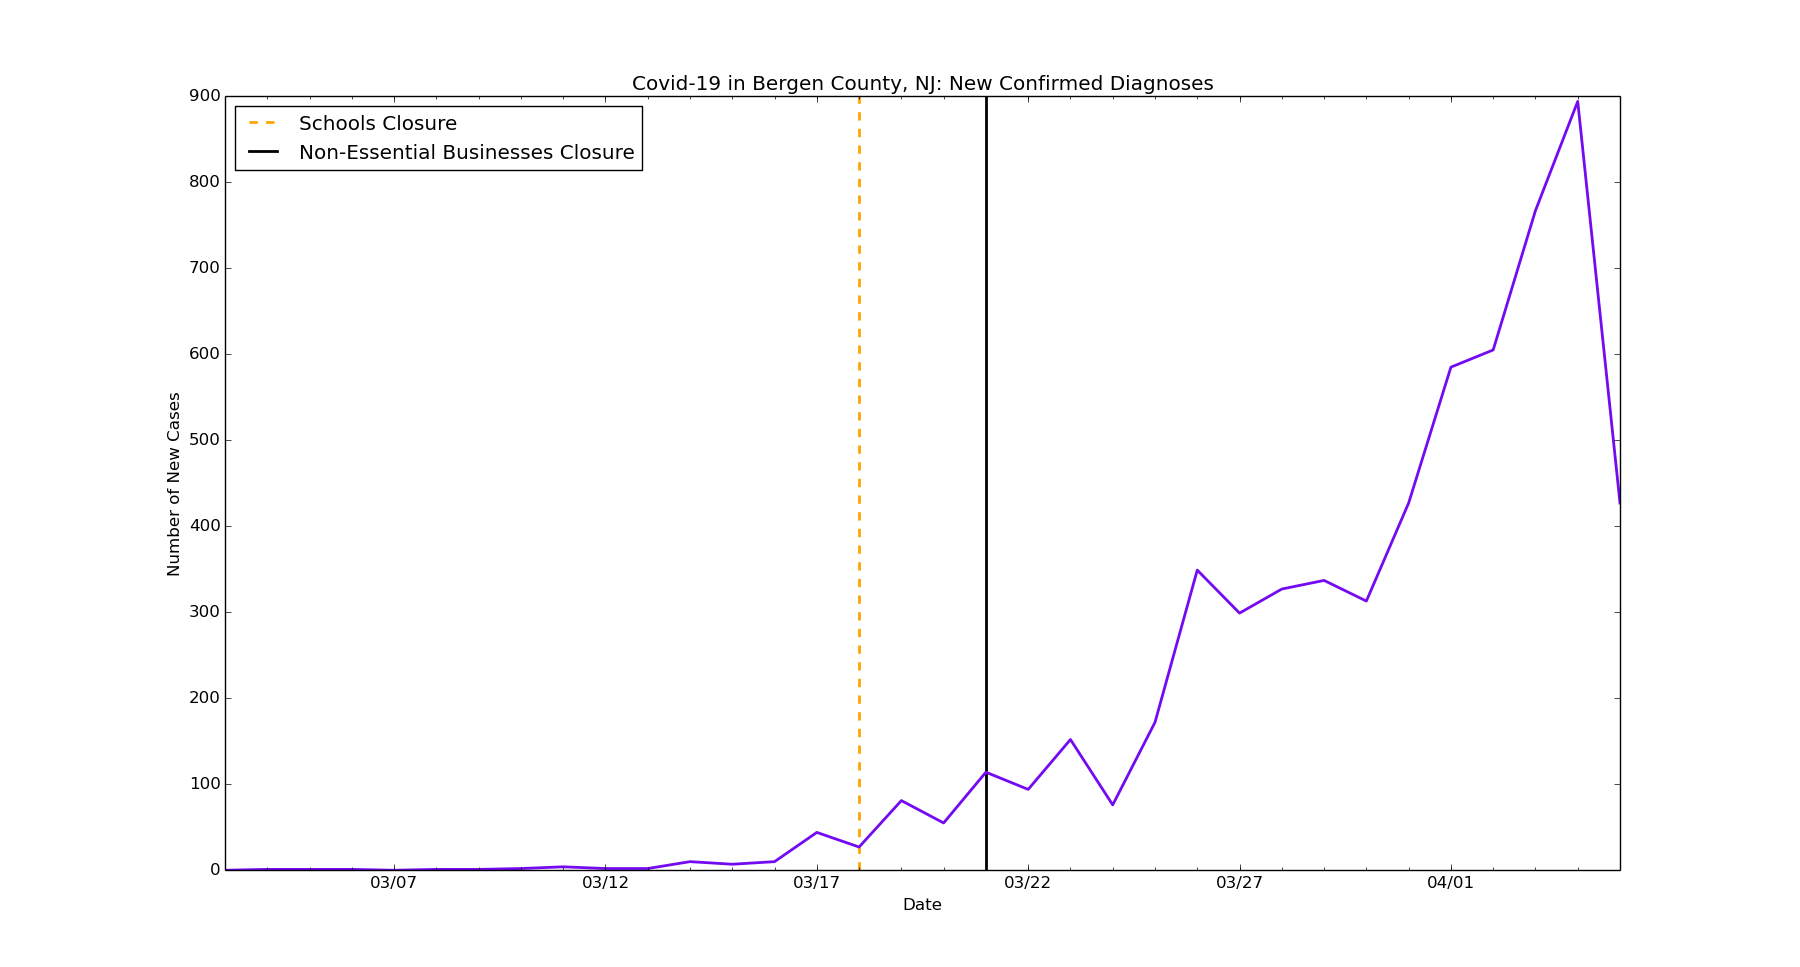
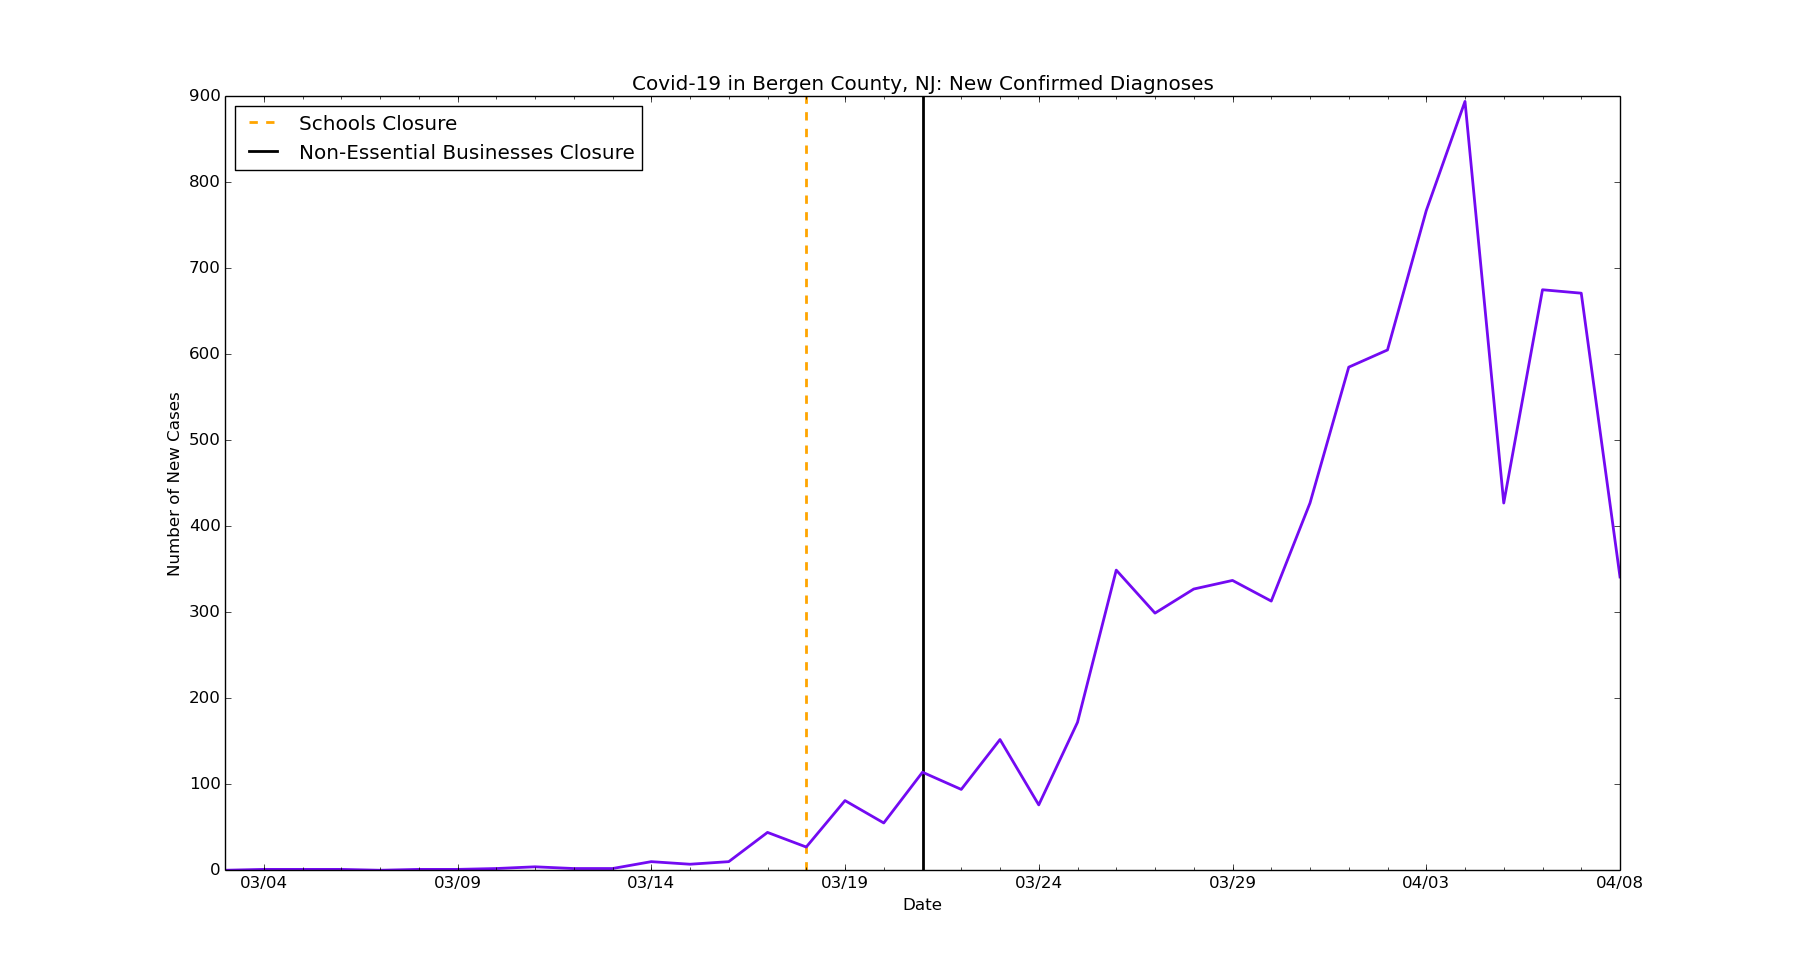
chore: Update data for Bergen

diff --git a/bergen-county/bergen-new-cases.py b/bergen-county/bergen-new-cases.py
@@ -6,7 +6,7 @@ import matplotlib.dates as mdates
 import matplotlib.ticker as ticker
 from matplotlib.dates import MO, TU, WE, TH, FR, SA, SU
 
-dates = ['3/3/2020', '3/4/2020', '3/5/2020', '3/6/2020', '3/7/2020', '3/8/2020', '3/9/2020', '3/10/2020', '3/11/2020', '3/12/2020', '3/13/2020', '3/14/2020', '3/15/2020', '3/16/2020', '3/17/2020', '3/18/2020', '3/19/2020', '3/20/2020', '3/21/2020', '3/22/2020', '3/23/2020', '3/24/2020', '3/25/2020', '3/26/2020', '3/27/2020', '3/28/2020', '3/29/2020', '3/30/2020', '3/31/2020', '4/1/2020', '4/2/2020', '4/3/2020', '4/4/2020', '4/5/2020']
+dates = ['3/3/2020', '3/4/2020', '3/5/2020', '3/6/2020', '3/7/2020', '3/8/2020', '3/9/2020', '3/10/2020', '3/11/2020', '3/12/2020', '3/13/2020', '3/14/2020', '3/15/2020', '3/16/2020', '3/17/2020', '3/18/2020', '3/19/2020', '3/20/2020', '3/21/2020', '3/22/2020', '3/23/2020', '3/24/2020', '3/25/2020', '3/26/2020', '3/27/2020', '3/28/2020', '3/29/2020', '3/30/2020', '3/31/2020', '4/1/2020', '4/2/2020', '4/3/2020', '4/4/2020', '4/5/2020', '4/6/2020', '4/7/2020', '4/8/2020']
 
 # format dates
 x_values = [dt.datetime.strptime(d, "%m/%d/%Y").date() for d in dates]
@@ -29,7 +29,7 @@ plt.axvline(dt.datetime(2020, 3, 18), linestyle='--', color='orange', linewidth=
 plt.axvline(dt.datetime(2020, 3, 21), color='black', linewidth=2, label='stay at home')
 
 # new cases by day
-new_cases = [0, 1, 1, 1, 0, 1, 1, 2, 4, 2, 2, 10, 7, 10, 44, 27, 81, 55, 114, 94, 152, 76, 172, 349, 299, 327, 337, 313, 427, 585, 605, 767, 894, 427]
+new_cases = [0, 1, 1, 1, 0, 1, 1, 2, 4, 2, 2, 10, 7, 10, 44, 27, 81, 55, 114, 94, 152, 76, 172, 349, 299, 327, 337, 313, 427, 585, 605, 767, 894, 427, 675, 671, 341]
 
 # text labels
 plt.title('Covid-19 in Bergen County, NJ: New Confirmed Diagnoses')

diff --git a/bergen-county/bergen-deaths-new.py b/bergen-county/bergen-deaths-new.py
@@ -6,7 +6,7 @@ import matplotlib.dates as mdates
 import matplotlib.ticker as ticker
 from matplotlib.dates import MO, TU, WE, TH, FR, SA, SU
 
-dates = ['3/9/2020', '3/10/2020', '3/11/2020', '3/12/2020', '3/13/2020', '3/14/2020', '3/15/2020', '3/16/2020', '3/17/2020', '3/18/2020', '3/19/2020', '3/20/2020', '3/21/2020', '3/22/2020', '3/23/2020', '3/24/2020', '3/25/2020', '3/26/2020', '3/27/2020', '3/28/2020', '3/29/2020', '3/30/2020', '3/31/2020', '4/1/2020', '4/2/2020', '4/3/2020', '4/4/2020', '4/5/2020']
+dates = ['3/9/2020', '3/10/2020', '3/11/2020', '3/12/2020', '3/13/2020', '3/14/2020', '3/15/2020', '3/16/2020', '3/17/2020', '3/18/2020', '3/19/2020', '3/20/2020', '3/21/2020', '3/22/2020', '3/23/2020', '3/24/2020', '3/25/2020', '3/26/2020', '3/27/2020', '3/28/2020', '3/29/2020', '3/30/2020', '3/31/2020', '4/1/2020', '4/2/2020', '4/3/2020', '4/4/2020', '4/5/2020', '4/6/2020', '4/7/2020', '4/8/2020']
 
 # format dates
 x_values = [datetime.datetime.strptime(d, "%m/%d/%Y").date() for d in dates]
@@ -24,7 +24,7 @@ ax.xaxis.set_minor_locator(mdates.WeekdayLocator(byweekday=(MO, TU, WE, TH, FR, 
 ax.get_yaxis().set_major_formatter(ticker.FuncFormatter(lambda x, pos: format(int(x), ',')))
 
 # new deaths by day
-new_deaths = [0, 1, 0, 0, 0, 0, 1, 0, 0, 0, 1, 1, 2, 1, 0, 4, 4, 3, 7, 6, 10, 0, 13, 21, 45, 12, 47, 10]
+new_deaths = [0, 1, 0, 0, 0, 0, 1, 0, 0, 0, 1, 1, 2, 1, 0, 4, 4, 3, 7, 6, 10, 0, 13, 21, 45, 12, 47, 10, 11, 63, 51]
 
 # text labels
 plt.title('Covid-19 in Bergen County, NJ: New Fatalities')
